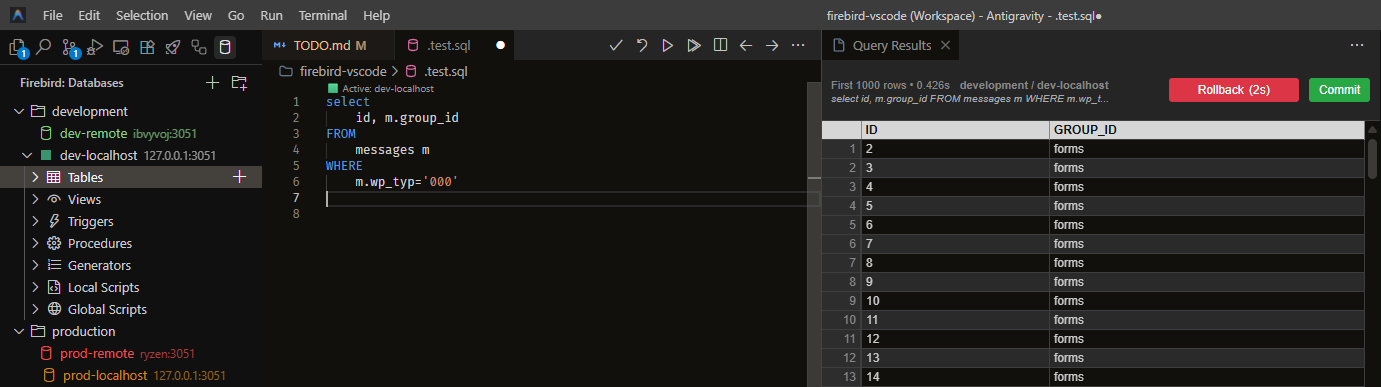
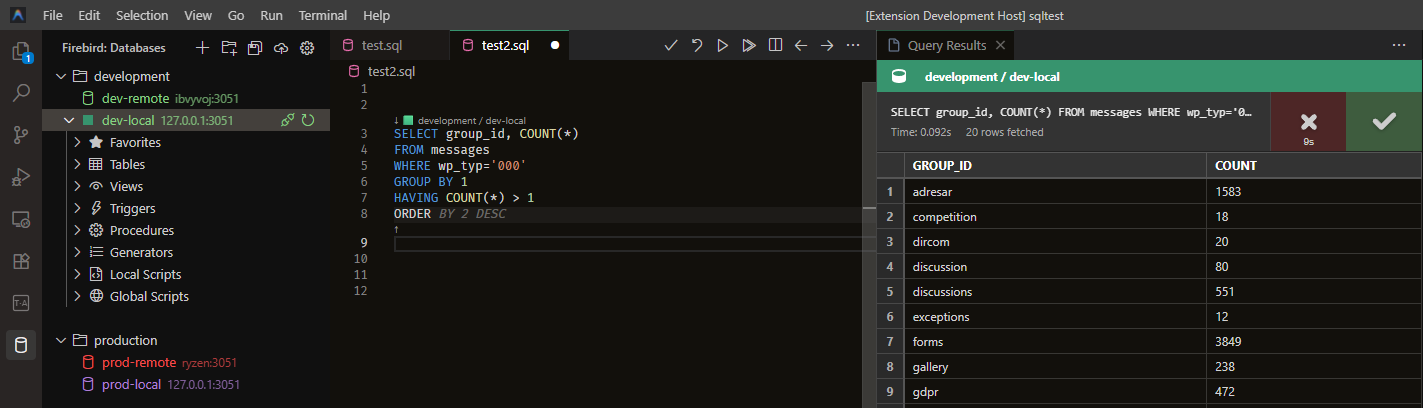
docs: update screenshot and README with new features (Copy to Clipboard, Table Info)

diff --git a/README.md b/README.md
@@ -9,9 +9,11 @@ Firebird database management extension for VS Code, Antigravity, Cursor and othe
 
 ## Features
 
-- **SQL Execution**: Run queries (`CTRL+Enter`) and scripts (`CTRL+ALT+Enter`). Supports executing SQL from other files (e.g. PHP) with parameter injection.
+- **SQL Execution**: Run queries (`CTRL+Enter`) and scripts (`CTRL+ALT+Enter`). Supports SQL from other files (e.g. PHP) with parameter injection.
 - **Transaction Support**: Explicit Commit/Rollback support.
 - **Explorer**: View databases, tables, views, procedures, triggers and more.
+- **Table Info**: Detailed view of table structure with PK/FK tags, index column tooltips, and grouped trigger views.
+- **Query Results**: Context menu to copy values, columns, or entire tables (Excel-formatted) to clipboard.
 - **Object Search**: Quickly filter and find database objects.
 - **Object Management**: Create and manage tables, views, procedures, triggers, indexes, etc.
 - **Backup & Restore**: Easily backup and restore your connection settings, including favorites and scripts.

diff --git a/CHANGELOG.md b/CHANGELOG.md
@@ -1,6 +1,7 @@
 # Changelog
 
 ## [ upcoming ]
+- **Documentation**: Updated `README.md` and screenshot to reflect new features (Copy to Clipboard, Enhanced Table Info).
 
 ## [1.0.0]
 ### Features
